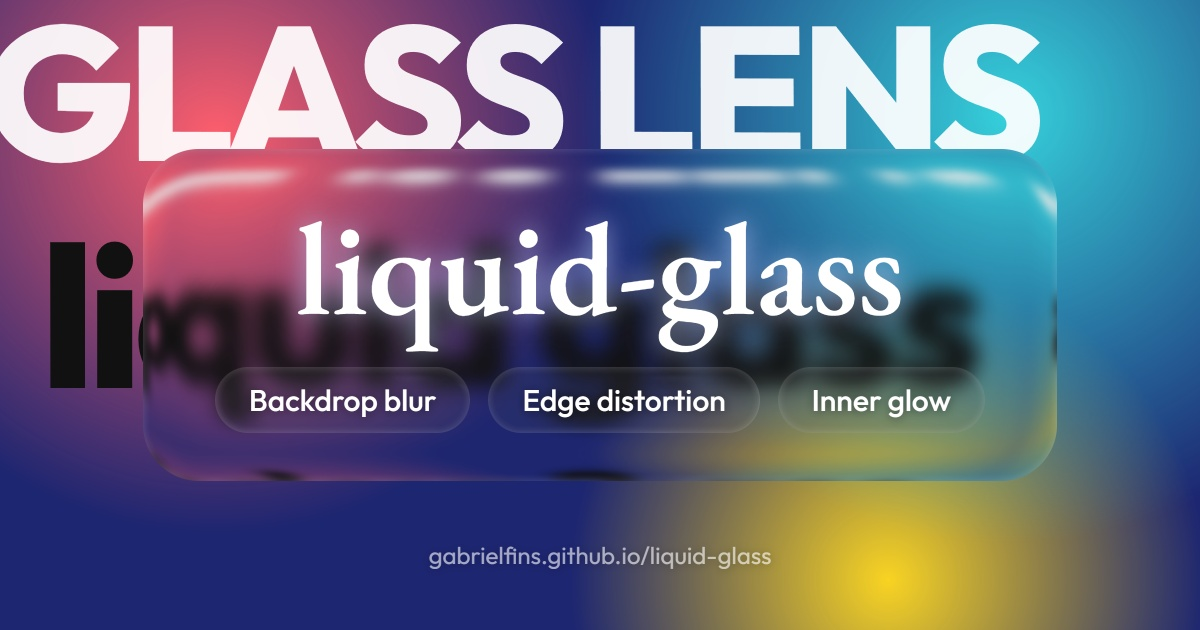
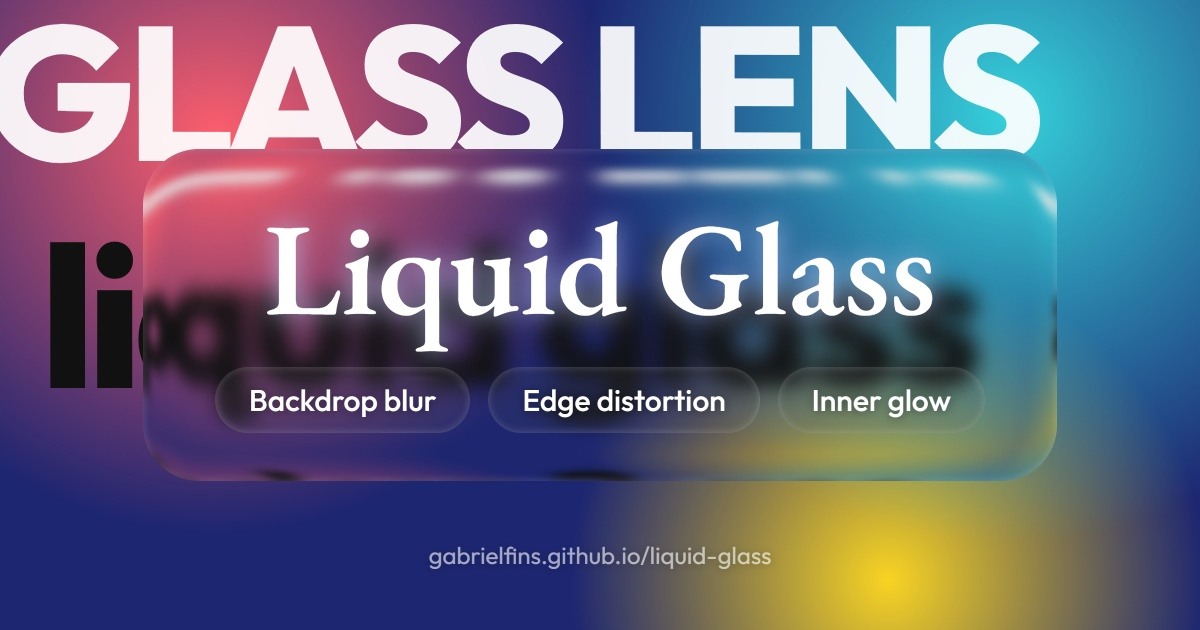
docs: write the name in title case, as Liquid Glass
Matches how ripple-effect is written ("Ripple Effect"). The display name
changes in the page title, the navbar, the hero, the Open Graph, Twitter, iOS
and JSON-LD tags (and their image descriptions), the README heading, and the
card page. The share card and the README screenshot are regenerated to show it.

The kebab-case form stays wherever it is an identifier: the package name, the
URLs, the data-liquid-glass attributes, the CSS variable and the install and
import snippets.

Changed region(s): [[0.2158, 0.3317, 0.8017, 0.573]]

diff --git a/docs/index.html b/docs/index.html
@@ -3,7 +3,7 @@
 <head>
   <meta charset="utf-8" />
   <meta name="viewport" content="width=device-width, initial-scale=1" />
-  <title>liquid-glass • Liquid glass effect for any element</title>
+  <title>Liquid Glass • Liquid glass effect for any element</title>
   <meta name="description" content="A liquid glass effect for any element, set with a data attribute: backdrop blur, edge distortion and a soft inner glow. No dependencies." />
   <meta name="color-scheme" content="dark" />
   <meta name="theme-color" content="#0b0d1a" />
@@ -11,34 +11,34 @@
 
   <!-- Open Graph: the card other sites show for a link. The image must be an absolute URL. -->
   <meta property="og:type" content="website" />
-  <meta property="og:site_name" content="liquid-glass" />
-  <meta property="og:title" content="liquid-glass • Liquid glass effect for any element" />
+  <meta property="og:site_name" content="Liquid Glass" />
+  <meta property="og:title" content="Liquid Glass • Liquid glass effect for any element" />
   <meta property="og:description" content="A liquid glass effect for any element, set with a data attribute: backdrop blur, edge distortion and a soft inner glow. No dependencies." />
   <meta property="og:url" content="https://gabrielfins.github.io/liquid-glass/" />
   <meta property="og:image" content="https://gabrielfins.github.io/liquid-glass/meta-image.jpg" />
   <meta property="og:image:type" content="image/jpeg" />
   <meta property="og:image:width" content="1200" />
   <meta property="og:image:height" content="630" />
-  <meta property="og:image:alt" content="liquid-glass, with the badges Backdrop blur, Edge distortion and Inner glow, on a panel of liquid glass over a colourful background." />
+  <meta property="og:image:alt" content="Liquid Glass, with the badges Backdrop blur, Edge distortion and Inner glow, on a panel of liquid glass over a colourful background." />
   <meta property="og:locale" content="en_US" />
 
   <!-- Twitter -->
   <meta name="twitter:card" content="summary_large_image" />
-  <meta name="twitter:title" content="liquid-glass • Liquid glass effect for any element" />
+  <meta name="twitter:title" content="Liquid Glass • Liquid glass effect for any element" />
   <meta name="twitter:description" content="A liquid glass effect for any element, set with a data attribute: backdrop blur, edge distortion and a soft inner glow. No dependencies." />
   <meta name="twitter:url" content="https://gabrielfins.github.io/liquid-glass/" />
   <meta name="twitter:image" content="https://gabrielfins.github.io/liquid-glass/meta-image.jpg" />
-  <meta name="twitter:image:alt" content="liquid-glass, with the badges Backdrop blur, Edge distortion and Inner glow, on a panel of liquid glass over a colourful background." />
+  <meta name="twitter:image:alt" content="Liquid Glass, with the badges Backdrop blur, Edge distortion and Inner glow, on a panel of liquid glass over a colourful background." />
 
   <!-- iOS would otherwise label a home-screen icon with the page's own title. -->
-  <meta name="apple-mobile-web-app-title" content="liquid-glass" />
+  <meta name="apple-mobile-web-app-title" content="Liquid Glass" />
 
   <!-- schema.org, so search engines know what this is and who made it. -->
   <script type="application/ld+json">
   {
     "@context": "https://schema.org",
     "@type": "SoftwareSourceCode",
-    "name": "liquid-glass",
+    "name": "Liquid Glass",
     "description": "A liquid glass effect for any element, set with a data attribute: backdrop blur, edge distortion and a soft inner glow. No dependencies.",
     "url": "https://gabrielfins.github.io/liquid-glass/",
     "codeRepository": "https://github.com/gabrielfins/liquid-glass",
@@ -69,7 +69,7 @@
 </head>
 <body>
   <header class="topbar" data-liquid-glass="12" data-liquid-glass-pseudo="::before">
-    <a class="brand" href="#top">liquid-glass</a>
+    <a class="brand" href="#top">Liquid Glass</a>
     <nav id="menu" data-liquid-glass="12" data-liquid-glass-enabled="false">
       <a href="#playground">Playground</a>
       <a href="#examples">Examples</a>
@@ -97,7 +97,7 @@
       </div>
 
       <div class="hero-panel" data-liquid-glass="lg">
-        <h1>liquid-glass</h1>
+        <h1>Liquid Glass</h1>
         <p>A glass effect for any element, set with a data attribute. Backdrop blur, a lens-like distortion at the edges and a soft glow inside the rim. No dependencies.</p>
 
         <div class="install">

diff --git a/docs/meta-image.html b/docs/meta-image.html
@@ -4,7 +4,7 @@
   <meta charset="utf-8" />
   <meta name="viewport" content="width=device-width, initial-scale=1" />
   <meta name="robots" content="noindex" />
-  <title>liquid-glass meta image</title>
+  <title>Liquid Glass meta image</title>
   <link rel="preconnect" href="https://fonts.googleapis.com" />
   <link rel="preconnect" href="https://fonts.gstatic.com" crossorigin />
   <link rel="stylesheet" href="https://fonts.googleapis.com/css2?family=EB+Garamond:wght@400..800&family=Outfit:wght@100..900&display=swap" />
@@ -59,7 +59,7 @@
 
   <main>
     <div class="panel" data-liquid-glass="12">
-      <h1>liquid-glass</h1>
+      <h1>Liquid Glass</h1>
       <div class="badges">
         <div class="badge" data-liquid-glass="4">Backdrop blur</div>
         <div class="badge" data-liquid-glass="4">Edge distortion</div>

diff --git a/README.md b/README.md
@@ -1,8 +1,8 @@
-# liquid-glass
+# Liquid Glass
 
 A glass effect for any element, set with a data attribute: backdrop blur, a lens-like distortion at the edges that follows the element's own size and corner radius, and a soft glow just inside the rim. No dependencies, about 5 KB gzipped, and no framework.
 
-[![liquid-glass: glass over a colourful background](https://gabrielfins.github.io/liquid-glass/screenshot.png)](https://gabrielfins.github.io/liquid-glass/)
+[![Liquid Glass: glass over a colourful background](https://gabrielfins.github.io/liquid-glass/screenshot.png)](https://gabrielfins.github.io/liquid-glass/)
 
 **[Docs and live playground](https://gabrielfins.github.io/liquid-glass/)**
 
